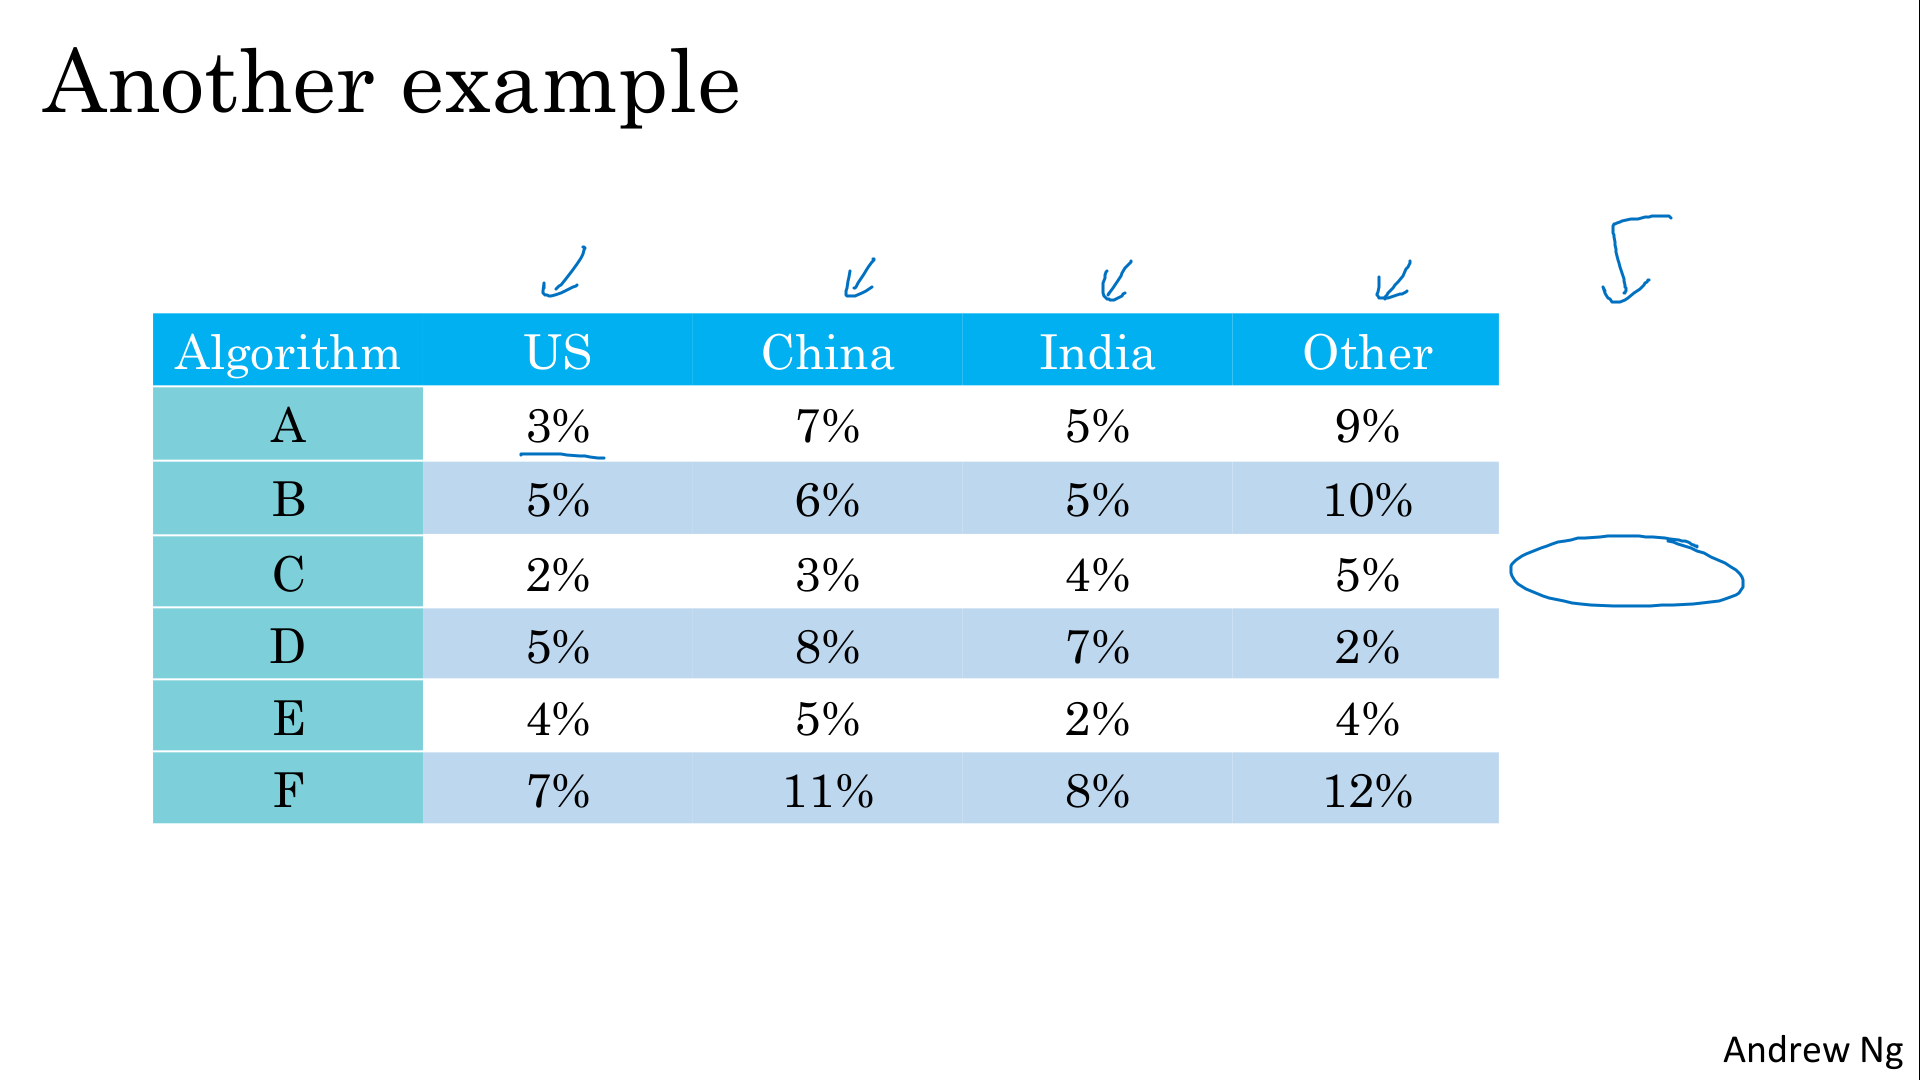
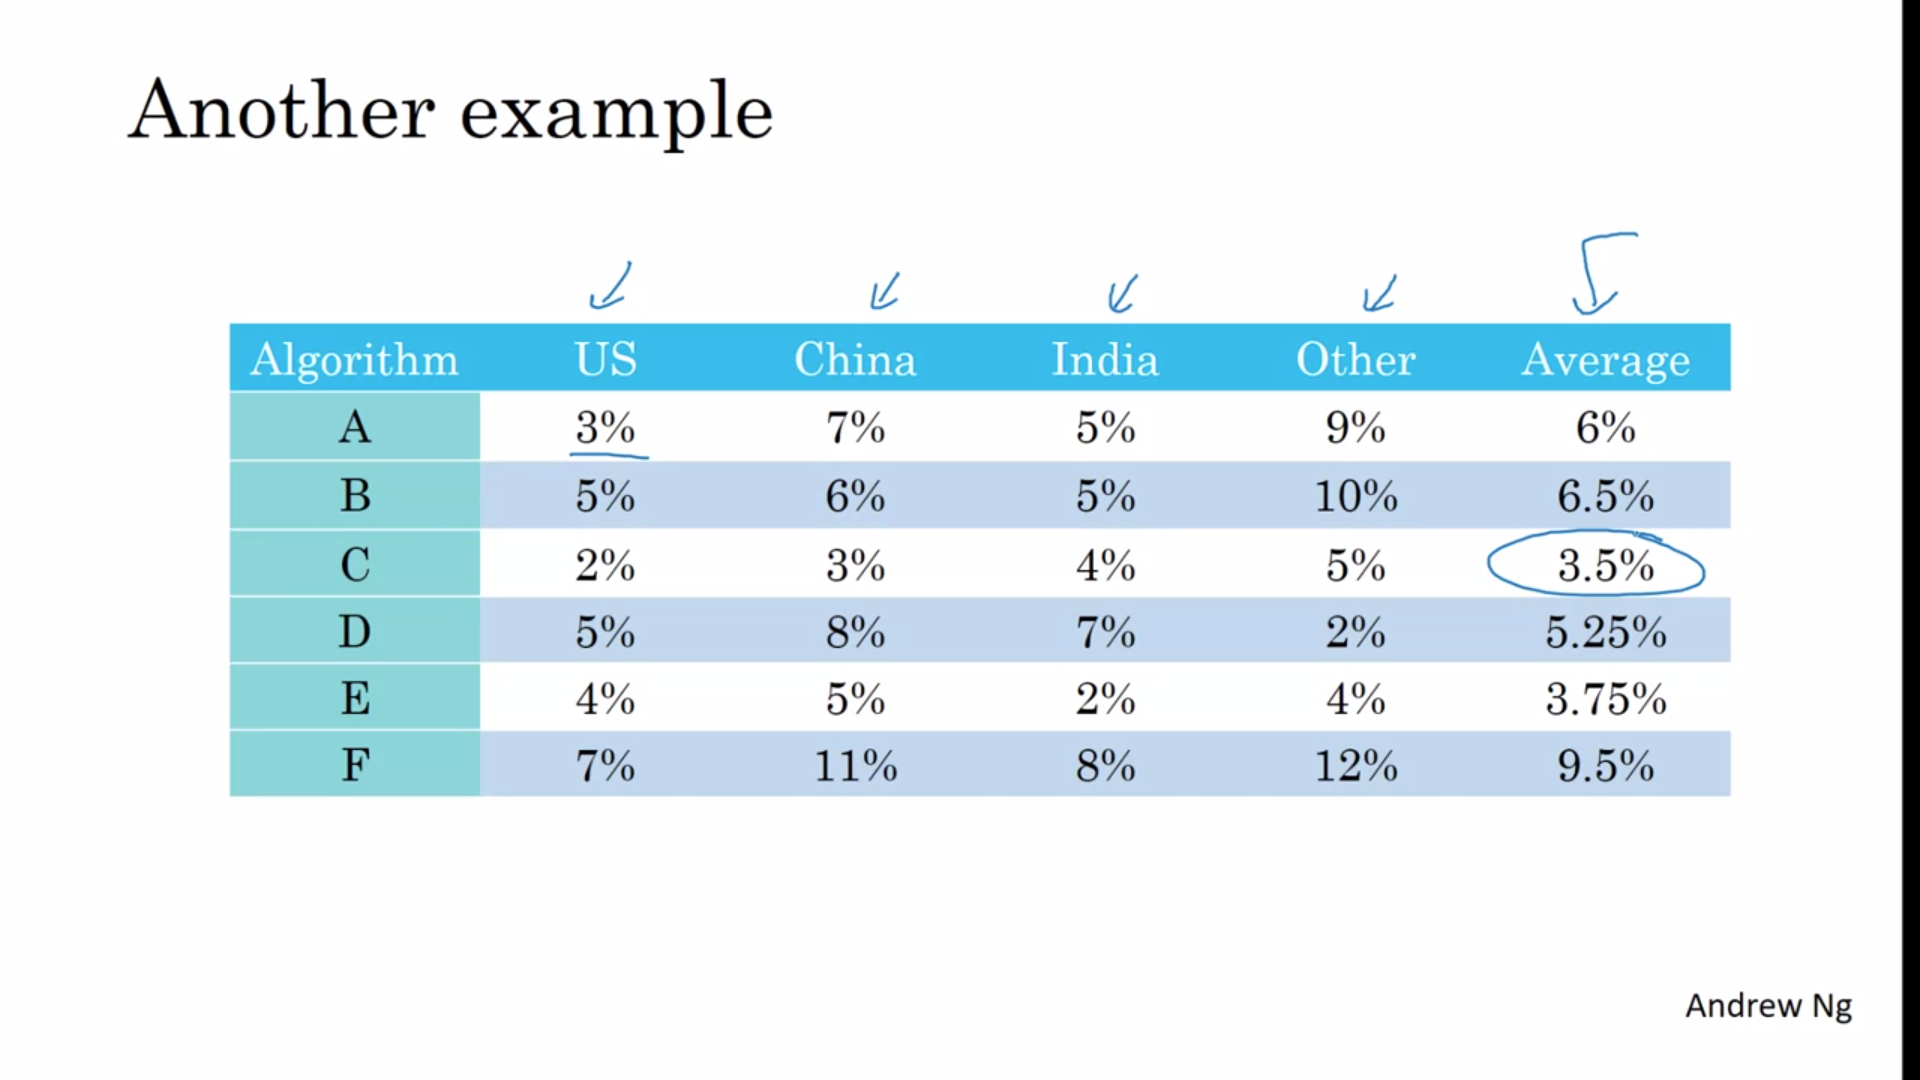
## Satisficing and Optimizing Metric

diff --git a/c3-structuring-ml-projects/week1/README.md b/c3-structuring-ml-projects/week1/README.md
@@ -14,22 +14,85 @@ Learning Objectives
 
 ## Why ML Strategy
 
+There is a lot of ideas for how to improve your deep learning system.
+
+
 > <img src="./images/w01-01-why_ml_strategy/img_2023-03-28_21-13-36.png">
 
 ## Orthogonalization
 
-> <img src="./images/w01-02-orthogonalization/img_2023-03-28_21-13-53.png">
-> <img src="./images/w01-02-orthogonalization/img_2023-03-28_21-13-56.png">
+- Each knob has a relatively interpretable function. Imagine a signle knob that would change everything at same time, should be almost impossible to tune the TV. In that context orthogonalization  refers to the fact that TV designer have designed the knobs to do only one thing
+- Other example is about the 3 controls (steering wheel, acceleration, and braking) in a car with well indentified actions. But now imagine if someone build a car with a joystick, where one axis of the joystick controls 0.3 x your steering angle,- 0.8 x your speed. And you had a different control that controls 2 x the steering angle, + 0.9 x the speed of your car. In theory, by tuning these two knobs, you could get your car to steer at the angle and at the speed you want. But it's much harder than if you had just one single control for controlling the steering angle, and a separate, distinct set of controls for controlling the speed.
+- Orthogonalization is having one dimension by knobs
 
+> <img src="./images/w01-02-orthogonalization/img_2023-03-28_21-13-53.png">
+
+<table>
+        <thead>
+                <tr>
+                        <th>Chain of assumptions in ML</th>
+                        <th>Possible tuning</th>
+                </tr>
+        </thead>
+        <tbody>
+                <tr>
+                        <td>Fit training set well on cost function</td>
+                        <td>- Bigger network<br />
+                        - Better optimization algorithm like Adam</td>
+                </tr>
+                <tr>
+                        <td>Fit dev set well on cost function</td>
+                        <td>- Regularization<br />
+                        - Bigger training set</td>
+                </tr>
+                <tr>
+                        <td>Fit test set well on cost function</td>
+                        <td>- bigger dev set</td>
+                </tr>
+                <tr>
+                        <td>Performs well in real world</td>
+                        <td>- change dev set or cost function<br /></td>
+                </tr>
+        </tbody>
+</table>
+
+> <img src="./images/w01-02-orthogonalization/img_2023-03-28_21-13-56.png">
 
 # Setting Up your Goal
 
 ## Single Number Evaluation Metric
 
+You'll find that your progress will be much faster if you have a single real number evaluation metric that lets you quickly tell if the new thing you just tried is working better or worse than your last idea.
+
+In the following exemple, it's easier to work with F1-score mmore than working on Precision and Record (that could evlolve in a opposite directions)
+
+| metric        | definition    |
+| :-:           | :--           |
+| Precision     | percentage of true positive in predicted positive |
+| Recall        | percentage of true positive predicted in all real positive |
+| F1 score      | harmonic mean of precision and recall |
+
 > <img src="./images/w01-03-single_number_evaluation_metric/img_2023-03-28_21-14-10.png">
+
+Other example. It's very difficult to look at these numbers and quickly decide if algorithm A or algorithm B is superior.  So what I recommend in this example is, in addition to tracking your performance in the four different geographies, to also compute the average. And assuming that average performance is a reasonable single real number evaluation metric, by computing the average, you can quickly tell that it looks like algorithm C has a lowest average error.
+
+
 > <img src="./images/w01-03-single_number_evaluation_metric/img_2023-03-28_21-14-14.png">
 
 ## Satisficing and Optimizing Metric
+
+First example (left column on the slide) : cat classifier :
+1. accurancy is to optimize (get best value)
+2. response time is to satisfy (< 1000 ms)
+
+Second example is aout voice recognition and wakewords ("ok google"):
+1. optimize accutacy
+2. accepr one false positive by 24 hours
+
+
+More generally :
+1. Maximizing 1 value       # optimizing metric (one optimizing metric)
+2. Satisfying N-1 values    # satisficing metric (N-1 satisficing metrics)
 
 > <img src="./images/w01-04-satisficing_and_optimizing_metric/img_2023-03-28_21-14-32.png">
 
